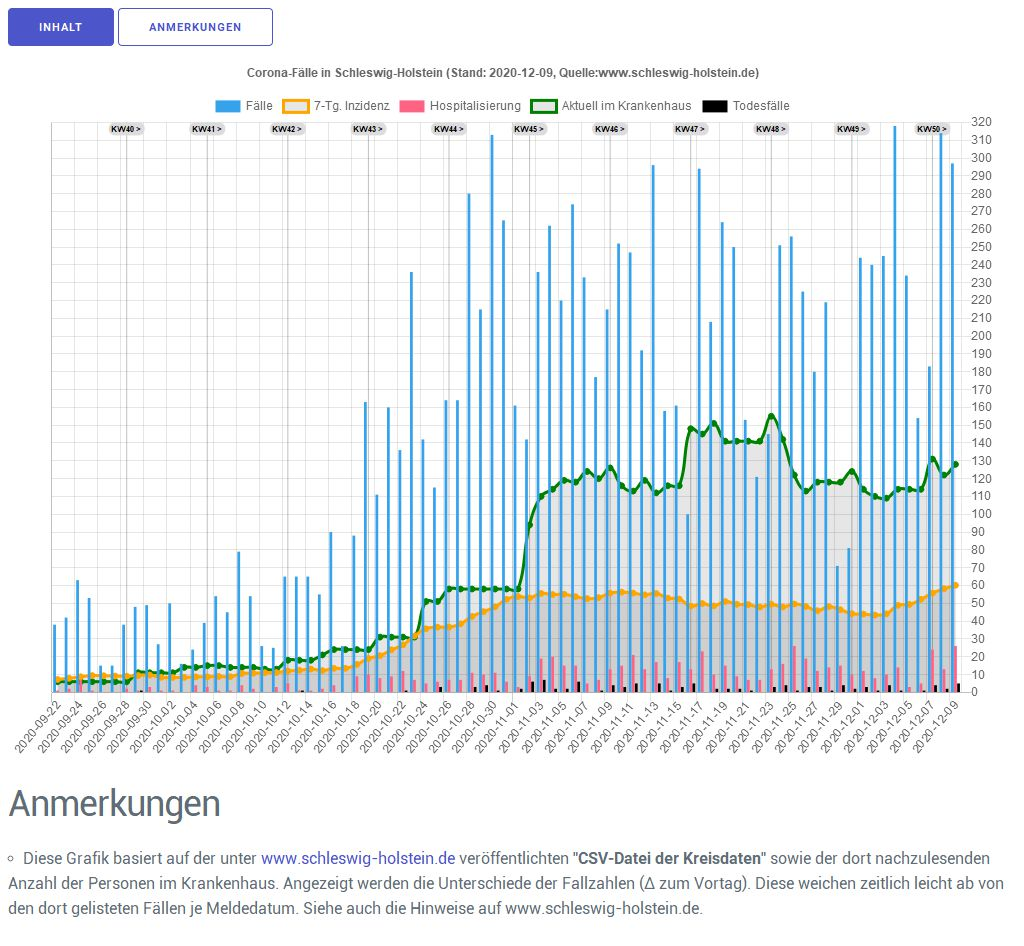
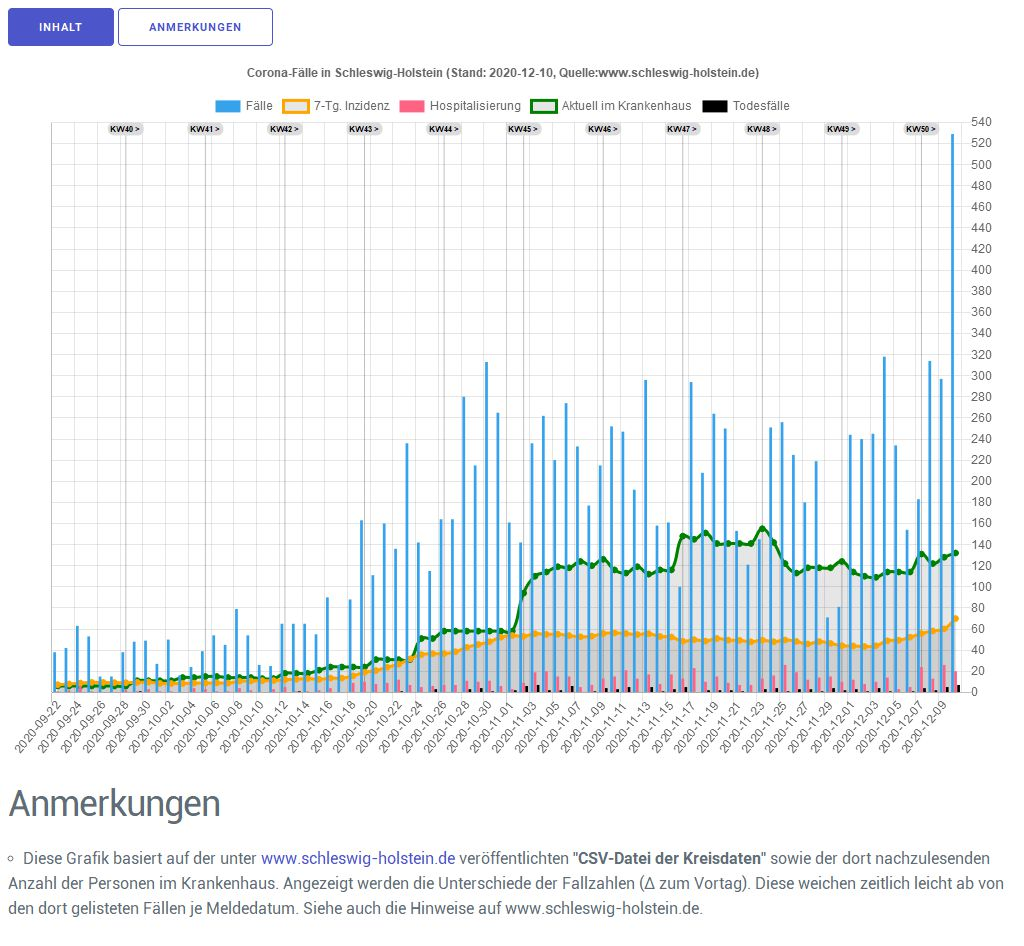
10.12.2020 21:45:45,38

Changed region(s): [[0.0312, 0.1226, 0.9688, 0.797], [0.0938, 0.1226, 0.125, 0.1533]]

diff --git a/sh/Data_SH_Alter.js b/sh/Data_SH_Alter.js
@@ -89,7 +89,8 @@ var chdata={
 				{x: '2020-12-06', y: 'Alle', v: 50.6582298, casesum: 1471},{x: '2020-12-06', y: '00-09', v: 30.7725867, casesum: 79},{x: '2020-12-06', y: '10-19', v: 73.1865496, casesum: 202},{x: '2020-12-06', y: '20-29', v: 79.0718898, casesum: 253},{x: '2020-12-06', y: '30-39', v: 61.2932884, casesum: 206},{x: '2020-12-06', y: '40-49', v: 54.4722574, casesum: 192},{x: '2020-12-06', y: '50-59', v: 47.6381759, casesum: 236},{x: '2020-12-06', y: '60-69', v: 31.634253, casesum: 115},{x: '2020-12-06', y: '70-79', v: 25.6816623, casesum: 76},{x: '2020-12-06', y: '80-89', v: 41.3773051, casesum: 74},{x: '2020-12-06', y: '90+', v: 131.871183, casesum: 38},
 				{x: '2020-12-07', y: 'Alle', v: 53.7576457, casesum: 1561},{x: '2020-12-07', y: '00-09', v: 29.9935339, casesum: 77},{x: '2020-12-07', y: '10-19', v: 78.983504, casesum: 218},{x: '2020-12-07', y: '20-29', v: 79.696964, casesum: 255},{x: '2020-12-07', y: '30-39', v: 64.566231, casesum: 217},{x: '2020-12-07', y: '40-49', v: 59.5790316, casesum: 210},{x: '2020-12-07', y: '50-59', v: 51.6753095, casesum: 256},{x: '2020-12-07', y: '60-69', v: 32.4594944, casesum: 118},{x: '2020-12-07', y: '70-79', v: 27.3712453, casesum: 81},{x: '2020-12-07', y: '80-89', v: 47.5279856, casesum: 85},{x: '2020-12-07', y: '90+', v: 152.692948, casesum: 44},
 				{x: '2020-12-08', y: 'Alle', v: 56.2371783, casesum: 1633},{x: '2020-12-08', y: '00-09', v: 30.7725867, casesum: 79},{x: '2020-12-08', y: '10-19', v: 78.2588847, casesum: 216},{x: '2020-12-08', y: '20-29', v: 79.0718898, casesum: 253},{x: '2020-12-08', y: '30-39', v: 71.7071966, casesum: 241},{x: '2020-12-08', y: '40-49', v: 59.2953219, casesum: 209},{x: '2020-12-08', y: '50-59', v: 55.106873, casesum: 273},{x: '2020-12-08', y: '60-69', v: 33.0096553, casesum: 120},{x: '2020-12-08', y: '70-79', v: 27.7091619, casesum: 82},{x: '2020-12-08', y: '80-89', v: 59.8293466, casesum: 107},{x: '2020-12-08', y: '90+', v: 183.925597, casesum: 53},
-				{x: '2020-12-09', y: 'Alle', v: 59.5087839, casesum: 1728},{x: '2020-12-09', y: '00-09', v: 30.7725867, casesum: 79},{x: '2020-12-09', y: '10-19', v: 79.3458137, casesum: 219},{x: '2020-12-09', y: '20-29', v: 80.0095011, casesum: 256},{x: '2020-12-09', y: '30-39', v: 79.7407829, casesum: 268},{x: '2020-12-09', y: '40-49', v: 63.8346767, casesum: 225},{x: '2020-12-09', y: '50-59', v: 56.5198698, casesum: 280},{x: '2020-12-09', y: '60-69', v: 36.3106209, casesum: 132},{x: '2020-12-09', y: '70-79', v: 30.0745782, casesum: 89},{x: '2020-12-09', y: '80-89', v: 63.743416, casesum: 114},{x: '2020-12-09', y: '90+', v: 229.039423, casesum: 66}
+				{x: '2020-12-09', y: 'Alle', v: 59.5087839, casesum: 1728},{x: '2020-12-09', y: '00-09', v: 30.7725867, casesum: 79},{x: '2020-12-09', y: '10-19', v: 79.3458137, casesum: 219},{x: '2020-12-09', y: '20-29', v: 80.0095011, casesum: 256},{x: '2020-12-09', y: '30-39', v: 79.7407829, casesum: 268},{x: '2020-12-09', y: '40-49', v: 63.8346767, casesum: 225},{x: '2020-12-09', y: '50-59', v: 56.5198698, casesum: 280},{x: '2020-12-09', y: '60-69', v: 36.3106209, casesum: 132},{x: '2020-12-09', y: '70-79', v: 30.0745782, casesum: 89},{x: '2020-12-09', y: '80-89', v: 63.743416, casesum: 114},{x: '2020-12-09', y: '90+', v: 229.039423, casesum: 66},
+				{x: '2020-12-10', y: 'Alle', v: 69.082535, casesum: 2006},{x: '2020-12-10', y: '00-09', v: 38.1735886, casesum: 98},{x: '2020-12-10', y: '10-19', v: 88.7658646, casesum: 245},{x: '2020-12-10', y: '20-29', v: 91.5733743, casesum: 293},{x: '2020-12-10', y: '30-39', v: 86.8817486, casesum: 292},{x: '2020-12-10', y: '40-49', v: 74.048225, casesum: 261},{x: '2020-12-10', y: '50-59', v: 65.1997069, casesum: 323},{x: '2020-12-10', y: '60-69', v: 43.7377933, casesum: 159},{x: '2020-12-10', y: '70-79', v: 33.7916609, casesum: 100},{x: '2020-12-10', y: '80-89', v: 85.5503741, casesum: 153},{x: '2020-12-10', y: '90+', v: 284.564131, casesum: 82}
 			],
 			backgroundColor: function(context) {
 				return inzColor(context.dataset.data[context.dataIndex].v)
@@ -97,7 +98,7 @@ var chdata={
 			width: function(context) {
 				const a = context.chart.chartArea
 				if (!a) return 0
-				return (a.right - a.left) / 86.5
+				return (a.right - a.left) / 87.5
 			},
 			height: function(context) {
 				const a = context.chart.chartArea
@@ -109,7 +110,7 @@ var chdata={
 	options: {
 		legend: { display: false },
 		scales: {
-			xAxes: [{type: 'category', labels: ["2020-09-15","2020-09-16","2020-09-17","2020-09-18","2020-09-19","2020-09-20","2020-09-21","2020-09-22","2020-09-23","2020-09-24","2020-09-25","2020-09-26","2020-09-27","2020-09-28","2020-09-29","2020-09-30","2020-10-01","2020-10-02","2020-10-03","2020-10-04","2020-10-05","2020-10-06","2020-10-07","2020-10-08","2020-10-09","2020-10-10","2020-10-11","2020-10-12","2020-10-13","2020-10-14","2020-10-15","2020-10-16","2020-10-17","2020-10-18","2020-10-19","2020-10-20","2020-10-21","2020-10-22","2020-10-23","2020-10-24","2020-10-25","2020-10-26","2020-10-27","2020-10-28","2020-10-29","2020-10-30","2020-10-31","2020-11-01","2020-11-02","2020-11-03","2020-11-04","2020-11-05","2020-11-06","2020-11-07","2020-11-08","2020-11-09","2020-11-10","2020-11-11","2020-11-12","2020-11-13","2020-11-14","2020-11-15","2020-11-16","2020-11-17","2020-11-18","2020-11-19","2020-11-20","2020-11-21","2020-11-22","2020-11-23","2020-11-24","2020-11-25","2020-11-26","2020-11-27","2020-11-28","2020-11-29","2020-11-30","2020-12-01","2020-12-02","2020-12-03","2020-12-04","2020-12-05","2020-12-06","2020-12-07","2020-12-08","2020-12-09",], ticks: {display: true},gridlines:{display:false}}],
+			xAxes: [{type: 'category', labels: ["2020-09-15","2020-09-16","2020-09-17","2020-09-18","2020-09-19","2020-09-20","2020-09-21","2020-09-22","2020-09-23","2020-09-24","2020-09-25","2020-09-26","2020-09-27","2020-09-28","2020-09-29","2020-09-30","2020-10-01","2020-10-02","2020-10-03","2020-10-04","2020-10-05","2020-10-06","2020-10-07","2020-10-08","2020-10-09","2020-10-10","2020-10-11","2020-10-12","2020-10-13","2020-10-14","2020-10-15","2020-10-16","2020-10-17","2020-10-18","2020-10-19","2020-10-20","2020-10-21","2020-10-22","2020-10-23","2020-10-24","2020-10-25","2020-10-26","2020-10-27","2020-10-28","2020-10-29","2020-10-30","2020-10-31","2020-11-01","2020-11-02","2020-11-03","2020-11-04","2020-11-05","2020-11-06","2020-11-07","2020-11-08","2020-11-09","2020-11-10","2020-11-11","2020-11-12","2020-11-13","2020-11-14","2020-11-15","2020-11-16","2020-11-17","2020-11-18","2020-11-19","2020-11-20","2020-11-21","2020-11-22","2020-11-23","2020-11-24","2020-11-25","2020-11-26","2020-11-27","2020-11-28","2020-11-29","2020-11-30","2020-12-01","2020-12-02","2020-12-03","2020-12-04","2020-12-05","2020-12-06","2020-12-07","2020-12-08","2020-12-09","2020-12-10",], ticks: {display: true},gridlines:{display:false}}],
 			yAxes: [{type: 'category', labels: ["Alle","00-09","10-19","20-29","30-39","40-49","50-59","60-69","70-79","80-89","90+"], offset:true, ticks: {display: true},gridlines:{display:false}}],
 		},
 	}

diff --git a/sh/Data_SH.js b/sh/Data_SH.js
@@ -1,33 +1,33 @@
 var chdata={
-labels: ["2020-09-22","2020-09-23","2020-09-24","2020-09-25","2020-09-26","2020-09-27","2020-09-28","2020-09-29","2020-09-30","2020-10-01","2020-10-02","2020-10-03","2020-10-04","2020-10-05","2020-10-06","2020-10-07","2020-10-08","2020-10-09","2020-10-10","2020-10-11","2020-10-12","2020-10-13","2020-10-14","2020-10-15","2020-10-16","2020-10-17","2020-10-18","2020-10-19","2020-10-20","2020-10-21","2020-10-22","2020-10-23","2020-10-24","2020-10-25","2020-10-26","2020-10-27","2020-10-28","2020-10-29","2020-10-30","2020-10-31","2020-11-01","2020-11-02","2020-11-03","2020-11-04","2020-11-05","2020-11-06","2020-11-07","2020-11-08","2020-11-09","2020-11-10","2020-11-11","2020-11-12","2020-11-13","2020-11-14","2020-11-15","2020-11-16","2020-11-17","2020-11-18","2020-11-19","2020-11-20","2020-11-21","2020-11-22","2020-11-23","2020-11-24","2020-11-25","2020-11-26","2020-11-27","2020-11-28","2020-11-29","2020-11-30","2020-12-01","2020-12-02","2020-12-03","2020-12-04","2020-12-05","2020-12-06","2020-12-07","2020-12-08","2020-12-09"],
+labels: ["2020-09-22","2020-09-23","2020-09-24","2020-09-25","2020-09-26","2020-09-27","2020-09-28","2020-09-29","2020-09-30","2020-10-01","2020-10-02","2020-10-03","2020-10-04","2020-10-05","2020-10-06","2020-10-07","2020-10-08","2020-10-09","2020-10-10","2020-10-11","2020-10-12","2020-10-13","2020-10-14","2020-10-15","2020-10-16","2020-10-17","2020-10-18","2020-10-19","2020-10-20","2020-10-21","2020-10-22","2020-10-23","2020-10-24","2020-10-25","2020-10-26","2020-10-27","2020-10-28","2020-10-29","2020-10-30","2020-10-31","2020-11-01","2020-11-02","2020-11-03","2020-11-04","2020-11-05","2020-11-06","2020-11-07","2020-11-08","2020-11-09","2020-11-10","2020-11-11","2020-11-12","2020-11-13","2020-11-14","2020-11-15","2020-11-16","2020-11-17","2020-11-18","2020-11-19","2020-11-20","2020-11-21","2020-11-22","2020-11-23","2020-11-24","2020-11-25","2020-11-26","2020-11-27","2020-11-28","2020-11-29","2020-11-30","2020-12-01","2020-12-02","2020-12-03","2020-12-04","2020-12-05","2020-12-06","2020-12-07","2020-12-08","2020-12-09","2020-12-10"],
 datasets: [
 {label: 'Fälle',
 type: 'bar',
 backgroundColor: window.chartColors.blue,
-data: [38,42,63,53,15,15,38,48,49,27,50,16,24,39,54,45,79,54,26,25,65,65,65,55,90,26,88,163,111,160,136,236,142,115,164,164,280,215,313,265,161,142,236,262,220,274,233,177,215,252,247,192,296,158,161,100,294,208,264,250,153,121,145,251,256,225,180,219,71,81,244,240,245,318,234,154,183,314,297]},
+data: [38,42,63,53,15,15,38,48,49,27,50,16,24,39,54,45,79,54,26,25,65,65,65,55,90,26,88,163,111,160,136,236,142,115,164,164,280,215,313,265,161,142,236,262,220,274,233,177,215,252,247,192,296,158,161,100,294,208,264,250,153,121,145,251,256,225,180,219,71,81,244,240,245,318,234,154,183,314,297,529]},
 {label: '7-Tg. Inzidenz',
 type: 'line',
 pointBackgroundColor: 'orange',
 borderColor: 'orange',
-data: [7.23197027,7.88629139,8.74724023,9.40156135,9.33268544,9.16049567,9.09161977,9.4359993,9.67706498,8.43729865,8.33398478,8.36842274,8.67836432,8.71280227,8.91943,8.78167818,10.5724518,10.7102036,11.0545831,11.0890211,11.9844079,12.3632254,13.0519844,12.2254735,13.4652399,13.4652399,15.634831,19.0097504,20.5938963,23.8655019,26.6549761,31.6829174,35.67772,36.6075447,36.6419827,38.4671942,42.5997487,45.320347,47.9720694,52.2079377,53.7920836,53.0344486,55.5139813,54.8940981,55.0662879,53.7232077,52.6211932,53.1722004,55.6861711,56.2371783,55.720609,54.7563463,55.5139813,52.9311348,52.3801275,48.4197628,49.8661569,48.5230767,51.0026094,49.4184635,49.2462737,47.8687556,49.4184635,47.9376315,49.5906533,48.2475731,45.8369163,48.1098213,46.3879236,44.1838945,43.9428289,43.3918216,44.0805807,48.8330183,49.3495876,52.2079377,55.720609,58.1312658,60.0942291]},
+data: [7.23197027,7.88629139,8.74724023,9.40156135,9.33268544,9.16049567,9.09161977,9.4359993,9.67706498,8.43729865,8.33398478,8.36842274,8.67836432,8.71280227,8.91943,8.78167818,10.5724518,10.7102036,11.0545831,11.0890211,11.9844079,12.3632254,13.0519844,12.2254735,13.4652399,13.4652399,15.634831,19.0097504,20.5938963,23.8655019,26.6549761,31.6829174,35.67772,36.6075447,36.6419827,38.4671942,42.5997487,45.320347,47.9720694,52.2079377,53.7920836,53.0344486,55.5139813,54.8940981,55.0662879,53.7232077,52.6211932,53.1722004,55.6861711,56.2371783,55.720609,54.7563463,55.5139813,52.9311348,52.3801275,48.4197628,49.8661569,48.5230767,51.0026094,49.4184635,49.2462737,47.8687556,49.4184635,47.9376315,49.5906533,48.2475731,45.8369163,48.1098213,46.3879236,44.1838945,43.9428289,43.3918216,44.0805807,48.8330183,49.3495876,52.2079377,55.720609,58.1312658,60.0942291,69.874608]},
 {label: 'Hospitalisierung',
 type: 'bar',
 backgroundColor: window.chartColors.red,
-data: [1,2,7,1,0,0,2,1,3,1,1,0,4,3,1,1,4,2,0,3,5,1,1,2,4,0,9,10,8,9,12,7,5,6,7,7,11,10,11,6,3,9,19,20,15,15,5,7,13,15,21,13,17,8,17,13,23,10,15,9,7,7,13,16,26,19,12,14,15,10,12,8,10,14,3,5,24,13,26]},
+data: [1,2,7,1,0,0,2,1,3,1,1,0,4,3,1,1,4,2,0,3,5,1,1,2,4,0,9,10,8,9,12,7,5,6,7,7,11,10,11,6,3,9,19,20,15,15,5,7,13,15,21,13,17,8,17,13,23,10,15,9,7,7,13,16,26,19,12,14,15,10,12,8,10,14,3,5,24,13,26,20]},
 {label: 'Hosp. (∑ 14-Tg.)',
 type: 'line',
 borderColor: 'rgba(0,255,0,0.5)',
 borderWidth: 1.5,
 pointRadius: 0,
-data: [12,12,20,22,22,22,22,23,23,21,22,21,24,26,26,25,22,23,23,26,29,29,27,28,31,31,36,43,50,58,66,71,76,79,81,87,97,105,112,118,112,111,122,133,136,144,144,145,151,159,169,172,178,180,194,198,202,192,192,186,188,188,188,189,194,200,195,201,199,196,185,183,178,183,179,177,188,185,185]},
+data: [12,12,20,22,22,22,22,23,23,21,22,21,24,26,26,25,22,23,23,26,29,29,27,28,31,31,36,43,50,58,66,71,76,79,81,87,97,105,112,118,112,111,122,133,136,144,144,145,151,159,169,172,178,180,194,198,202,192,192,186,188,188,188,189,194,200,195,201,199,196,185,183,178,183,179,177,188,185,185,186]},
 {label: 'Aktuell im Krankenhaus',
 type: 'line',
 pointBackgroundColor: 'green',
 borderColor: 'green',
-data: [6,6,6,6,6,6,6,11,11,11,11,14,14,15,15,14,14,14,13,13,18,18,18,21,24,24,24,24,31,31,31,31,51,51,58,58,58,58,58,58,58,94,110,114,119,118,124,120,126,116,113,119,112,116,116,148,145,151,141,141,141,141,155,142,122,113,118,118,118,124,114,110,109,114,114,114,131,122,128]},
+data: [6,6,6,6,6,6,6,11,11,11,11,14,14,15,15,14,14,14,13,13,18,18,18,21,24,24,24,24,31,31,31,31,51,51,58,58,58,58,58,58,58,94,110,114,119,118,124,120,126,116,113,119,112,116,116,148,145,151,141,141,141,141,155,142,122,113,118,118,118,124,114,110,109,114,114,114,131,122,128,132]},
 {label: 'Todesfälle',
 type: 'bar',
 backgroundColor: 'black',
-data: [0,0,0,0,0,0,0,1,0,0,0,0,0,0,0,0,0,0,0,0,0,1,0,0,0,0,0,0,0,0,1,0,0,3,0,0,3,4,1,0,2,6,7,2,2,6,0,1,4,3,5,0,5,1,3,5,0,2,2,2,1,0,3,4,1,3,3,1,4,2,3,1,4,1,0,1,4,2,5]},
+data: [0,0,0,0,0,0,0,1,0,0,0,0,0,0,0,0,0,0,0,0,0,1,0,0,0,0,0,0,0,0,1,0,0,3,0,0,3,4,1,0,2,6,7,2,2,6,0,1,4,3,5,0,5,1,3,5,0,2,2,2,1,0,3,4,1,3,3,1,4,2,3,1,4,1,0,1,4,2,5,7]},
 ]};
 

diff --git a/sh/Kreis_PI.js b/sh/Kreis_PI.js
@@ -1,33 +1,33 @@
 var chdata={
-labels: ["2020-09-22","2020-09-23","2020-09-24","2020-09-25","2020-09-26","2020-09-27","2020-09-28","2020-09-29","2020-09-30","2020-10-01","2020-10-02","2020-10-03","2020-10-04","2020-10-05","2020-10-06","2020-10-07","2020-10-08","2020-10-09","2020-10-10","2020-10-11","2020-10-12","2020-10-13","2020-10-14","2020-10-15","2020-10-16","2020-10-17","2020-10-18","2020-10-19","2020-10-20","2020-10-21","2020-10-22","2020-10-23","2020-10-24","2020-10-25","2020-10-26","2020-10-27","2020-10-28","2020-10-29","2020-10-30","2020-10-31","2020-11-01","2020-11-02","2020-11-03","2020-11-04","2020-11-05","2020-11-06","2020-11-07","2020-11-08","2020-11-09","2020-11-10","2020-11-11","2020-11-12","2020-11-13","2020-11-14","2020-11-15","2020-11-16","2020-11-17","2020-11-18","2020-11-19","2020-11-20","2020-11-21","2020-11-22","2020-11-23","2020-11-24","2020-11-25","2020-11-26","2020-11-27","2020-11-28","2020-11-29","2020-11-30","2020-12-01","2020-12-02","2020-12-03","2020-12-04","2020-12-05","2020-12-06","2020-12-07","2020-12-08","2020-12-09"],
+labels: ["2020-09-22","2020-09-23","2020-09-24","2020-09-25","2020-09-26","2020-09-27","2020-09-28","2020-09-29","2020-09-30","2020-10-01","2020-10-02","2020-10-03","2020-10-04","2020-10-05","2020-10-06","2020-10-07","2020-10-08","2020-10-09","2020-10-10","2020-10-11","2020-10-12","2020-10-13","2020-10-14","2020-10-15","2020-10-16","2020-10-17","2020-10-18","2020-10-19","2020-10-20","2020-10-21","2020-10-22","2020-10-23","2020-10-24","2020-10-25","2020-10-26","2020-10-27","2020-10-28","2020-10-29","2020-10-30","2020-10-31","2020-11-01","2020-11-02","2020-11-03","2020-11-04","2020-11-05","2020-11-06","2020-11-07","2020-11-08","2020-11-09","2020-11-10","2020-11-11","2020-11-12","2020-11-13","2020-11-14","2020-11-15","2020-11-16","2020-11-17","2020-11-18","2020-11-19","2020-11-20","2020-11-21","2020-11-22","2020-11-23","2020-11-24","2020-11-25","2020-11-26","2020-11-27","2020-11-28","2020-11-29","2020-11-30","2020-12-01","2020-12-02","2020-12-03","2020-12-04","2020-12-05","2020-12-06","2020-12-07","2020-12-08","2020-12-09","2020-12-10"],
 datasets: [
 {label: 'Fälle',
 type: 'bar',
 backgroundColor: window.chartColors.blue,
 yAxisID: 'first-y-axis',
-data: [7,7,2,17,0,9,3,8,10,6,6,7,4,2,7,6,7,4,8,3,11,12,17,9,3,0,36,10,12,34,0,73,34,8,10,0,27,36,60,67,0,32,26,49,42,43,45,24,7,36,47,34,28,43,18,0,51,51,49,47,42,31,55,50,68,43,0,73,18,32,47,59,40,42,0,55,34,78,34]},
+data: [7,7,2,17,0,9,3,8,10,6,6,7,4,2,7,6,7,4,8,3,11,12,17,9,3,0,36,10,12,34,0,73,34,8,10,0,27,36,60,67,0,32,26,49,42,43,45,24,7,36,47,34,28,43,18,0,51,51,49,47,42,31,55,50,68,43,0,73,18,32,47,59,40,42,0,55,34,78,34,99]},
 {label: '7-Tg. Inzidenz',
 type: 'line',
 pointBackgroundColor: 'orange',
 borderColor: 'orange',
 yAxisID: 'first-y-axis',
-data: [10.4300994,12.0104175,11.3782902,14.5389264,12.0104175,14.2228628,14.2228628,14.5389264,15.4871172,16.7513717,13.2746719,15.4871172,13.9067992,13.5907355,13.2746719,12.0104175,12.3264811,11.6943538,12.0104175,11.6943538,14.5389264,16.1192445,19.5959443,20.2280715,19.9120079,17.383499,27.8135983,27.4975347,27.4975347,32.8706162,30.0260436,52.1504969,62.8966598,54.0468786,54.0468786,50.2541151,48.0416698,59.41996,55.311133,65.7412324,63.2127235,70.166123,78.3837771,85.3371767,87.2335584,81.8604769,74.9070773,82.4926041,74.5910137,77.7516499,77.1195226,74.5910137,69.8500594,69.2179322,67.3215505,65.1091052,69.8500594,71.1143139,75.8552681,81.8604769,81.5444133,85.6532403,103.036739,102.720676,108.093757,106.197375,91.3423854,101.140358,97.0315305,89.7620673,88.8138765,85.9693039,85.021113,98.295785,75.2231409,86.9174948,87.549622,97.3475941,89.4460037]},
+data: [10.4300994,12.0104175,11.3782902,14.5389264,12.0104175,14.2228628,14.2228628,14.5389264,15.4871172,16.7513717,13.2746719,15.4871172,13.9067992,13.5907355,13.2746719,12.0104175,12.3264811,11.6943538,12.0104175,11.6943538,14.5389264,16.1192445,19.5959443,20.2280715,19.9120079,17.383499,27.8135983,27.4975347,27.4975347,32.8706162,30.0260436,52.1504969,62.8966598,54.0468786,54.0468786,50.2541151,48.0416698,59.41996,55.311133,65.7412324,63.2127235,70.166123,78.3837771,85.3371767,87.2335584,81.8604769,74.9070773,82.4926041,74.5910137,77.7516499,77.1195226,74.5910137,69.8500594,69.2179322,67.3215505,65.1091052,69.8500594,71.1143139,75.8552681,81.8604769,81.5444133,85.6532403,103.036739,102.720676,108.093757,106.197375,91.3423854,101.140358,97.0315305,89.7620673,88.8138765,85.9693039,85.021113,98.295785,75.2231409,86.9174948,87.549622,97.3475941,89.4460037,108.093757]},
 {label: 'Hospitalisierung',
 type: 'bar',
 backgroundColor: window.chartColors.red,
 yAxisID: 'first-y-axis',
-data: [0,0,0,0,0,0,1,1,0,0,0,0,1,1,1,-1,2,0,0,0,0,0,0,0,0,0,3,2,0,1,0,5,0,1,1,0,1,2,5,2,0,2,1,2,5,3,0,0,3,4,2,3,3,1,1,0,6,1,2,2,2,0,1,2,6,4,0,6,4,4,3,3,2,5,0,2,4,1,6]},
+data: [0,0,0,0,0,0,1,1,0,0,0,0,1,1,1,-1,2,0,0,0,0,0,0,0,0,0,3,2,0,1,0,5,0,1,1,0,1,2,5,2,0,2,1,2,5,3,0,0,3,4,2,3,3,1,1,0,6,1,2,2,2,0,1,2,6,4,0,6,4,4,3,3,2,5,0,2,4,1,6,7]},
 {label: 'Hospitalisierung (∑ 14-Tg.)',
 type: 'line',
 pointRadius: 0,
 borderColor: 'rgba(0,128,0,0.5)',
 borderWidth: 1.5,
 yAxisID: 'first-y-axis',
-data: [2,2,2,2,2,2,3,4,3,2,2,2,3,4,5,4,6,6,6,6,5,4,4,4,4,4,6,7,6,8,6,11,11,12,13,13,14,16,21,23,20,20,21,22,27,25,25,24,26,30,31,32,30,29,30,28,33,32,29,28,30,30,28,26,30,31,28,33,36,40,37,39,39,42,40,42,45,44,44]},
+data: [2,2,2,2,2,2,3,4,3,2,2,2,3,4,5,4,6,6,6,6,5,4,4,4,4,4,6,7,6,8,6,11,11,12,13,13,14,16,21,23,20,20,21,22,27,25,25,24,26,30,31,32,30,29,30,28,33,32,29,28,30,30,28,26,30,31,28,33,36,40,37,39,39,42,40,42,45,44,44,47]},
 {label: 'Todesfälle',
 type: 'bar',
 backgroundColor: 'black',
 yAxisID: 'first-y-axis',
-data: [0,0,0,0,0,0,0,0,0,0,0,0,0,0,0,0,0,0,0,0,0,0,0,0,0,0,0,0,0,0,0,0,0,0,0,0,1,0,0,0,0,0,0,0,0,0,0,0,0,1,0,0,0,0,0,0,0,0,0,0,0,0,0,0,0,1,0,1,0,2,0,0,2,1,0,0,0,1,0]},
+data: [0,0,0,0,0,0,0,0,0,0,0,0,0,0,0,0,0,0,0,0,0,0,0,0,0,0,0,0,0,0,0,0,0,0,0,0,1,0,0,0,0,0,0,0,0,0,0,0,0,1,0,0,0,0,0,0,0,0,0,0,0,0,0,0,0,1,0,1,0,2,0,0,2,1,0,0,0,1,0,2]},
 ]};
 

diff --git a/sh/index_sh_alter.html b/sh/index_sh_alter.html
@@ -5,7 +5,7 @@
 <meta property="og:image" content="index_sh_alter.jpg" />
 <meta property="og:type" content="website" />
 <meta property="og:locale" content="de_DE" />
-<meta property="og:updated_time" content="2020-12-10T21:22:39+01:00" />
+<meta property="og:updated_time" content="2020-12-10T21:45:45+01:00" />
 <title>Altersverteilung der Corona-Fälle in Schleswig-Holstein</title>
 <link rel="stylesheet" href="../css/style.css" media="screen" type="text/css">
 <link rel="stylesheet" media="screen" href="Chart.min.css"> 

diff --git a/sh/index_pi_alter.html b/sh/index_pi_alter.html
@@ -5,7 +5,7 @@
 <meta property="og:image" content="index_sh_alter.jpg" />
 <meta property="og:type" content="website" />
 <meta property="og:locale" content="de_DE" />
-<meta property="og:updated_time" content="2020-12-10T21:22:39+01:00" />
+<meta property="og:updated_time" content="2020-12-10T21:45:45+01:00" />
 <title>Altersverteilung der Corona-Fälle im Kreis Pinneberg</title>
 <link rel="stylesheet" href="../css/style.css" media="screen" type="text/css">
 <link rel="stylesheet" media="screen" href="Chart.min.css"> 

diff --git a/sh/index.html b/sh/index.html
@@ -5,7 +5,7 @@
 <meta property="og:image" content="index.jpg" />
 <meta property="og:type" content="website" />
 <meta property="og:locale" content="de_DE" />
-<meta property="og:updated_time" content="2020-12-10T21:22:39+01:00" />
+<meta property="og:updated_time" content="2020-12-10T21:45:45+01:00" />
 <title>Corona-Fälle im Kreis Pinneberg</title>
 <link rel="stylesheet" href="../css/style.css" media="screen" type="text/css">
 <link rel="stylesheet" media="screen" href="Chart.min.css"> 
